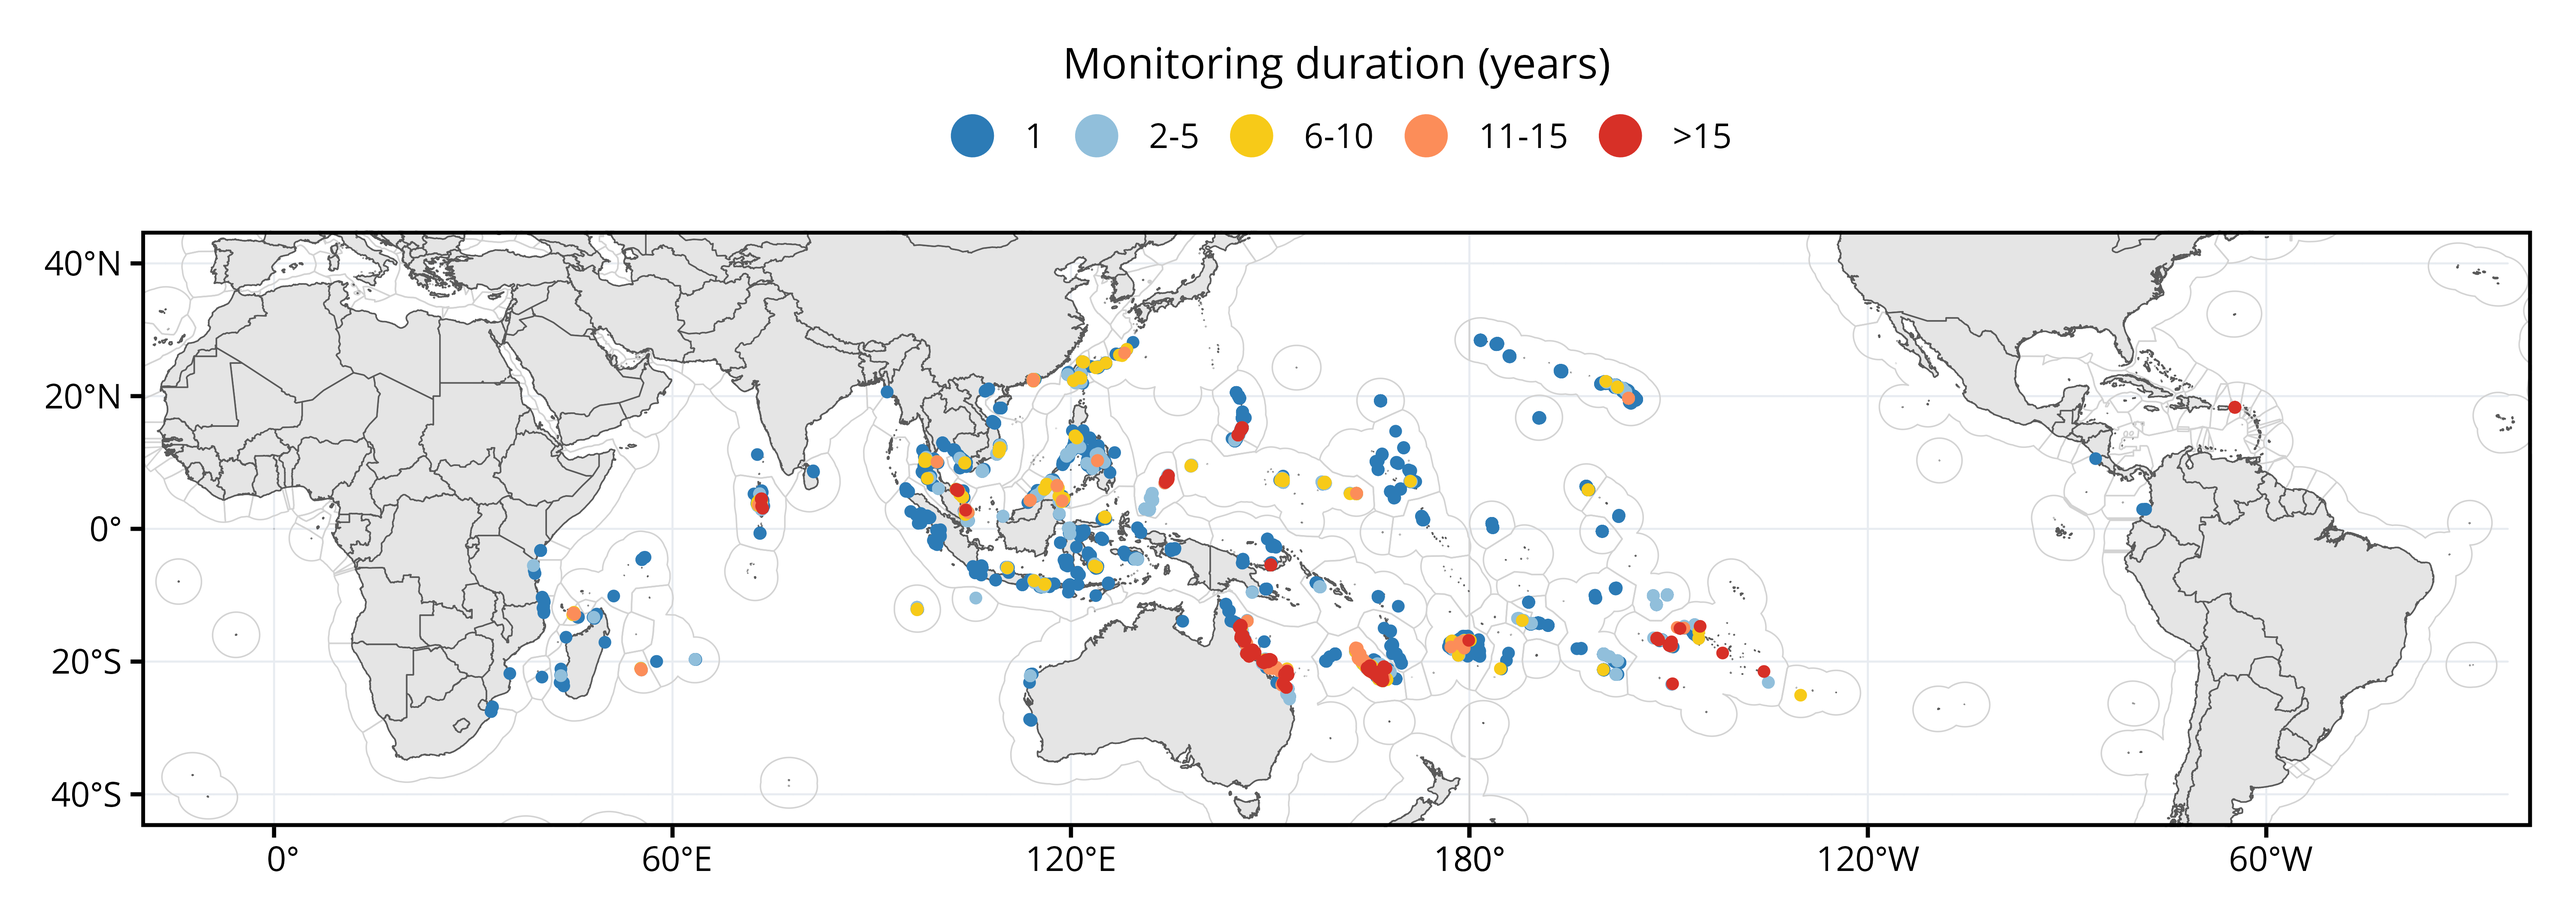
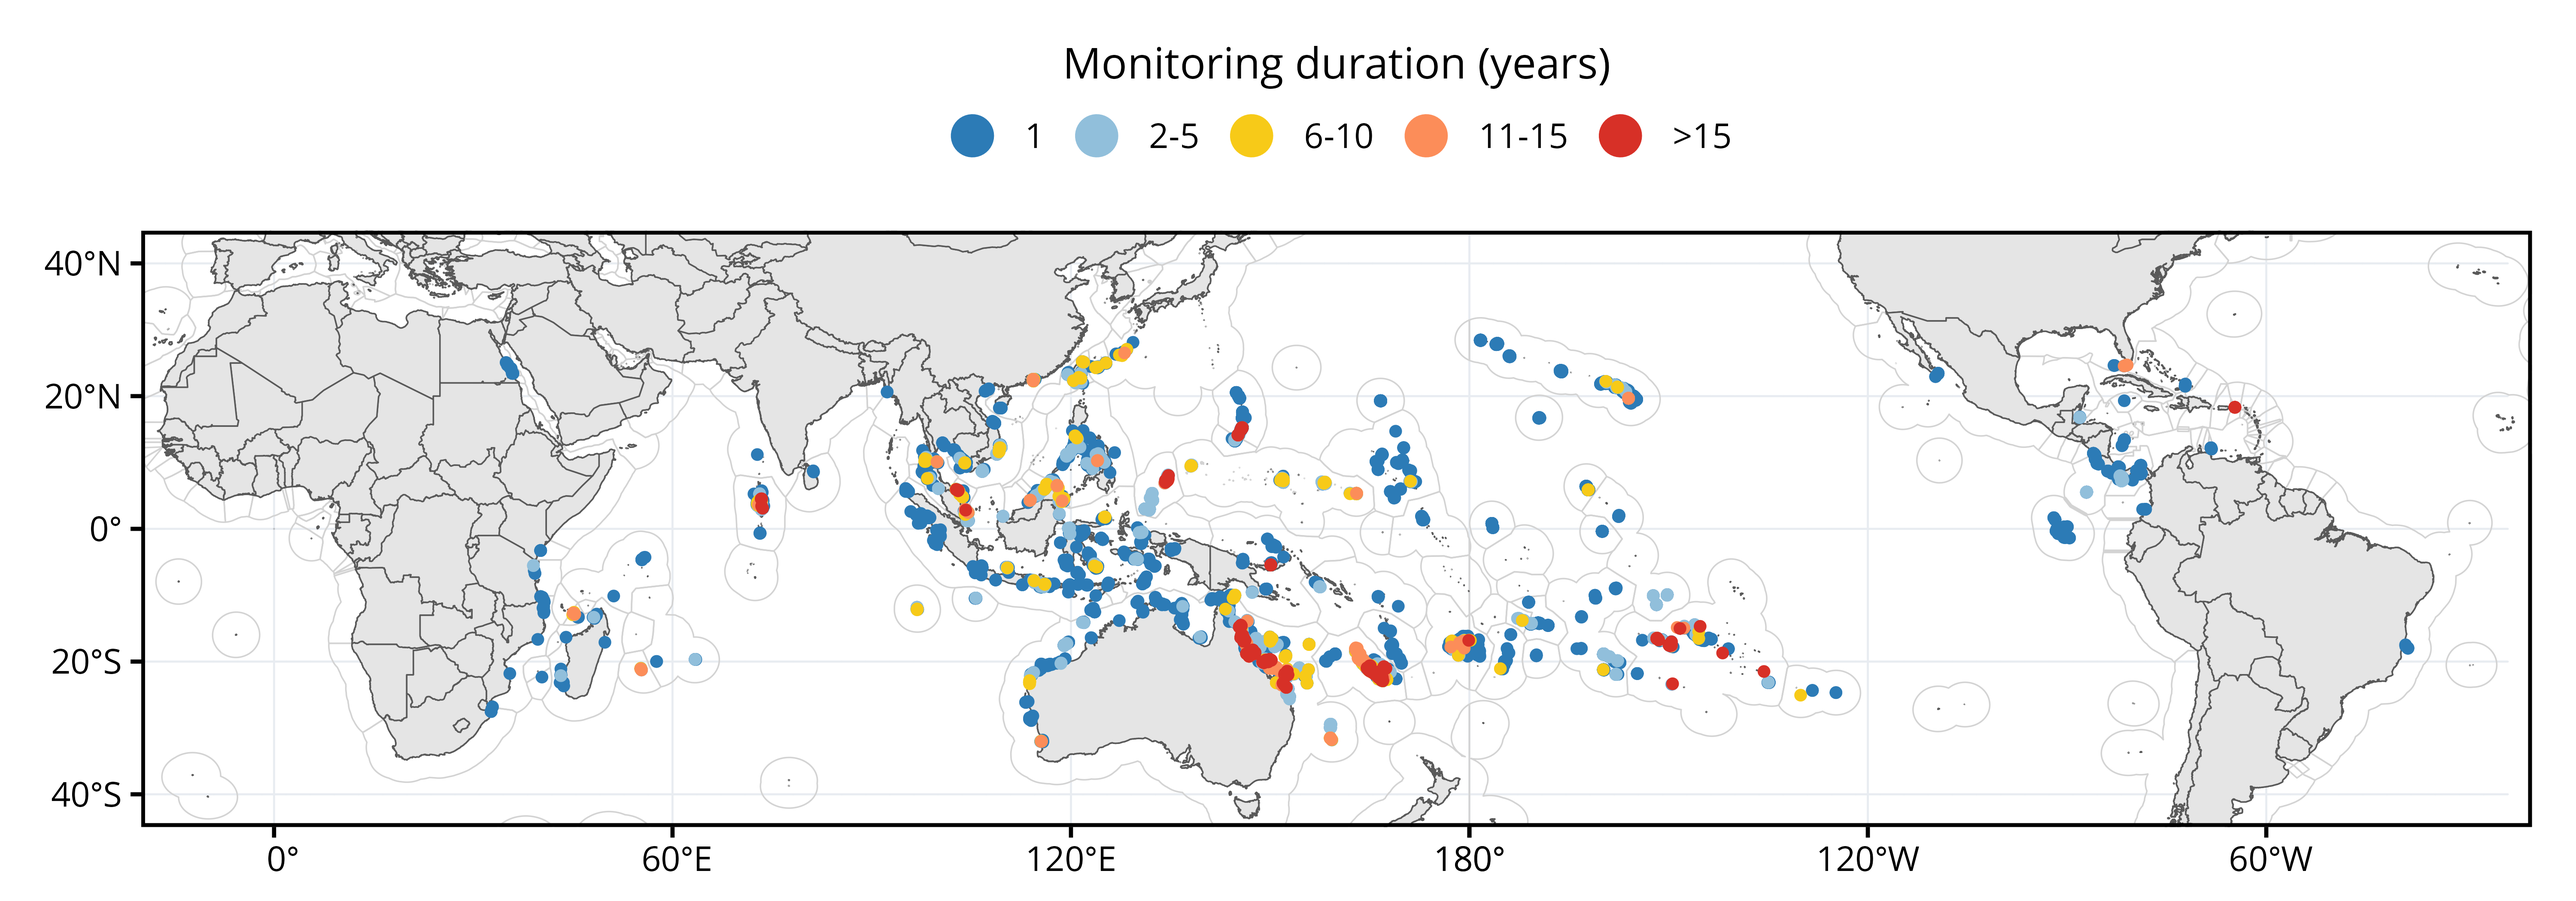
update standardization for dataset 0038

diff --git a/README.md b/README.md
@@ -269,9 +269,9 @@ considered. The column names (except *aggregator*) correspond to
 
 ## 6. Description of the synthetic dataset
 
-On the 2023-11-09, the `gcrmndb_benthos` synthetic dataset contains a
-total of **986,529 observations** (*i.e* rows) representing **9,862
-sites** and **22,945 surveys**.
+On the 2023-12-06, the `gcrmndb_benthos` synthetic dataset contains a
+total of **1,024,515 observations** (*i.e* rows) representing **11,281
+sites** and **24,966 surveys**.
 
 ![](figs/map_sites.png)
 
@@ -290,13 +290,15 @@ GCRMN regions.
 
 | GCRMN region | Sites (n) | Surveys (n) | Datasets (n) | First year | Last year |
 |-------------:|----------:|------------:|-------------:|:----------:|:---------:|
-|    Australia |       546 |        4175 |            2 |    1995    |   2019    |
-|    Caribbean |         8 |         236 |            2 |    1987    |   2021    |
-|          EAS |      2386 |        5247 |            2 |    1997    |   2022    |
-|          ETP |         5 |           5 |            1 |    1998    |   2004    |
-|      Pacific |      6620 |       12723 |           37 |    1987    |   2023    |
-|   South Asia |       151 |         217 |            1 |    1997    |   2022    |
-|          WIO |       146 |         342 |            1 |    1997    |   2019    |
+|    Australia |      1276 |        5409 |            3 |    1995    |   2023    |
+|       Brazil |        10 |          11 |            1 |    2012    |   2012    |
+|    Caribbean |        91 |         341 |            3 |    1987    |   2022    |
+|          EAS |      2519 |        5402 |            3 |    1997    |   2022    |
+|          ETP |       243 |         287 |            2 |    1998    |   2018    |
+|       PERSGA |        12 |          12 |            1 |    2011    |   2011    |
+|      Pacific |      6799 |       12911 |           38 |    1987    |   2023    |
+|   South Asia |       163 |         229 |            2 |    1997    |   2022    |
+|          WIO |       168 |         364 |            2 |    1997    |   2019    |
 
 **Table 7.** Summary of the content of the `gcrmndb_benthos` synthetic
 dataset per country and territory. The total number of datasets
@@ -304,64 +306,76 @@ integrated within the `gcrmndb_benthos` can differ from the sum of the
 column `Datasets (n)`, as some datasets includes sites in different
 territories.
 
-|               Country | Territory                    | Sites (n) | Surveys (n) | Datasets (n) | First year | Last year |
-|----------------------:|:-----------------------------|----------:|------------:|-------------:|:----------:|:---------:|
-|             Australia | Australia                    |       524 |        4113 |            2 |    1995    |   2019    |
-|             Australia | Christmas Island             |         2 |          13 |            1 |    2003    |   2007    |
-|             Australia | Cocos Islands                |        20 |          49 |            1 |    1997    |   2008    |
-|            Bangladesh | Bangladesh                   |         2 |           2 |            1 |    2005    |   2006    |
-|                Brunei | Brunei                       |        38 |          45 |            1 |    1997    |   2016    |
-|              Cambodia | Cambodia                     |        91 |          98 |            1 |    1998    |   2013    |
-|                 China | China                        |       100 |         366 |            1 |    1997    |   2012    |
-|              Colombia | Colombia                     |         4 |           4 |            1 |    1998    |   1999    |
-|            Costa Rica | Costa Rica                   |         1 |           1 |            1 |    2004    |   2004    |
-|            East Timor | East Timor                   |        10 |          12 |            1 |    2004    |   2017    |
-|                  Fiji | Fiji                         |       568 |         890 |           10 |    1997    |   2022    |
-|                France | Europa Island                |         1 |           1 |            1 |    2002    |   2002    |
-|                France | French Polynesia             |       150 |        2000 |            6 |    1987    |   2022    |
-|                France | Mayotte                      |        20 |          87 |            1 |    2003    |   2017    |
-|                France | New Caledonia                |       753 |        3200 |            7 |    1997    |   2023    |
-|                France | Réunion                      |        32 |         133 |            1 |    2003    |   2016    |
-|                 India | India                        |         1 |           1 |            1 |    1998    |   1998    |
-|             Indonesia | Indonesia                    |       549 |         908 |            1 |    1997    |   2022    |
-|                 Japan | Japan                        |        44 |         102 |            1 |    1997    |   2015    |
-|                 Kenya | Kenya                        |         6 |           6 |            1 |    2003    |   2004    |
-|              Kiribati | Gilbert Islands              |        18 |          18 |            2 |    2011    |   2018    |
-|              Kiribati | Line Group                   |        47 |          66 |            1 |    2017    |   2021    |
-|            Madagascar | Madagascar                   |        43 |          55 |            1 |    2001    |   2019    |
-|              Malaysia | Malaysia                     |       626 |        2195 |            2 |    1997    |   2021    |
-|              Maldives | Maldives                     |       145 |         211 |            1 |    1997    |   2022    |
-|      Marshall Islands | Marshall Islands             |        77 |          91 |            2 |    2002    |   2020    |
-|            Micronesia | Micronesia                   |       203 |         445 |            3 |    2000    |   2020    |
-|            Mozambique | Mozambique                   |        13 |          14 |            1 |    1997    |   2006    |
-|               Myanmar | Myanmar                      |        22 |          29 |            1 |    2001    |   2013    |
-|           New Zealand | Cook Islands                 |       172 |         226 |            4 |    2005    |   2023    |
-|                 Palau | Palau                        |       112 |         381 |            3 |    1997    |   2022    |
-|      Papua New Guinea | Papua New Guinea             |        83 |         259 |            3 |    1998    |   2019    |
-|           Philippines | Philippines                  |       472 |         695 |            1 |    1997    |   2020    |
-| Republic of Mauritius | Republic of Mauritius        |        10 |          12 |            1 |    1999    |   2003    |
-|                 Samoa | Samoa                        |        26 |          51 |            2 |    2013    |   2019    |
-|            Seychelles | Seychelles                   |         7 |           7 |            1 |    1997    |   2001    |
-|       Solomon Islands | Solomon Islands              |        73 |         171 |            3 |    2005    |   2021    |
-|          South Africa | South Africa                 |         5 |           6 |            1 |    2001    |   2005    |
-|             Sri Lanka | Sri Lanka                    |         3 |           3 |            1 |    2003    |   2003    |
-|                Taiwan | Taiwan                       |       103 |         195 |            1 |    1997    |   2020    |
-|              Tanzania | Tanzania                     |         9 |          21 |            1 |    1997    |   2008    |
-|              Thailand | Thailand                     |       149 |         246 |            1 |    1998    |   2022    |
-|                 Tonga | Tonga                        |         4 |           9 |            2 |    2002    |   2019    |
-|        United Kingdom | Pitcairn                     |         1 |           5 |            1 |    2009    |   2018    |
-|         United States | American Samoa               |       826 |         886 |            3 |    1997    |   2019    |
-|         United States | Guam                         |       301 |         353 |            4 |    1997    |   2021    |
-|         United States | Hawaii                       |      1725 |        1915 |            3 |    1997    |   2021    |
-|         United States | Howland and Baker Islands    |       150 |         150 |            1 |    2015    |   2017    |
-|         United States | Jarvis Island                |       222 |         222 |            1 |    2015    |   2017    |
-|         United States | Johnston Atoll               |        46 |          46 |            1 |    2015    |   2015    |
-|         United States | Northern Mariana Islands     |       679 |         840 |            3 |    1999    |   2020    |
-|         United States | Palmyra Atoll                |       194 |         294 |            2 |    2009    |   2019    |
-|         United States | United States Virgin Islands |         8 |         236 |            2 |    1987    |   2021    |
-|         United States | Wake Island / Enenkio        |       146 |         146 |            1 |    2014    |   2017    |
-|               Vanuatu | Vanuatu                      |        44 |          59 |            2 |    2004    |   2019    |
-|               Vietnam | Vietnam                      |       182 |         356 |            1 |    1998    |   2011    |
+|               Country | Territory                      | Sites (n) | Surveys (n) | Datasets (n) | First year | Last year |
+|----------------------:|:-------------------------------|----------:|------------:|-------------:|:----------:|:---------:|
+|             Australia | Australia                      |      1247 |        5343 |            3 |    1995    |   2023    |
+|             Australia | Christmas Island               |        16 |          30 |            2 |    2003    |   2010    |
+|             Australia | Cocos Islands                  |        20 |          49 |            1 |    1997    |   2008    |
+|            Bangladesh | Bangladesh                     |         2 |           2 |            1 |    2005    |   2006    |
+|                Belize | Belize                         |        12 |          22 |            1 |    2015    |   2018    |
+|                Brazil | Brazil                         |        10 |          11 |            1 |    2012    |   2012    |
+|                Brunei | Brunei                         |        38 |          45 |            1 |    1997    |   2016    |
+|              Cambodia | Cambodia                       |        96 |         103 |            2 |    1998    |   2013    |
+|                 China | China                          |       100 |         366 |            1 |    1997    |   2012    |
+|              Colombia | Colombia                       |        20 |          20 |            2 |    1998    |   2011    |
+|            Costa Rica | Costa Rica                     |        52 |          65 |            2 |    2004    |   2011    |
+|            East Timor | East Timor                     |        11 |          13 |            2 |    2004    |   2017    |
+|               Ecuador | Galapagos                      |        65 |          65 |            1 |    2008    |   2012    |
+|                 Egypt | Egypt                          |        12 |          12 |            1 |    2011    |   2011    |
+|                  Fiji | Fiji                           |       568 |         890 |           10 |    1997    |   2022    |
+|                France | Europa Island                  |         1 |           1 |            1 |    2002    |   2002    |
+|                France | French Polynesia               |       223 |        2075 |            7 |    1987    |   2022    |
+|                France | Mayotte                        |        20 |          87 |            1 |    2003    |   2017    |
+|                France | New Caledonia                  |       753 |        3200 |            7 |    1997    |   2023    |
+|                France | Réunion                        |        32 |         133 |            1 |    2003    |   2016    |
+|                 India | India                          |         1 |           1 |            1 |    1998    |   1998    |
+|             Indonesia | Indonesia                      |       668 |        1049 |            2 |    1997    |   2022    |
+|                 Japan | Japan                          |        52 |         110 |            2 |    1997    |   2015    |
+|                 Kenya | Kenya                          |         6 |           6 |            1 |    2003    |   2004    |
+|              Kiribati | Gilbert Islands                |        18 |          18 |            2 |    2011    |   2018    |
+|              Kiribati | Line Group                     |        47 |          66 |            1 |    2017    |   2021    |
+|            Madagascar | Madagascar                     |        43 |          55 |            1 |    2001    |   2019    |
+|              Malaysia | Malaysia                       |       626 |        2195 |            2 |    1997    |   2021    |
+|              Maldives | Maldives                       |       157 |         223 |            2 |    1997    |   2022    |
+|      Marshall Islands | Marshall Islands               |        90 |         104 |            3 |    2002    |   2020    |
+|                Mexico | Mexico                         |         9 |          10 |            1 |    2018    |   2018    |
+|            Micronesia | Federated States of Micronesia |       203 |         445 |            3 |    2000    |   2020    |
+|            Mozambique | Mozambique                     |        14 |          15 |            2 |    1997    |   2012    |
+|               Myanmar | Myanmar                        |        22 |          29 |            1 |    2001    |   2013    |
+|           Netherlands | Bonaire                        |        14 |          14 |            1 |    2012    |   2012    |
+|           New Zealand | Cook Islands                   |       184 |         238 |            5 |    2005    |   2023    |
+|           New Zealand | Niue                           |         7 |           7 |            1 |    2011    |   2011    |
+|             Nicaragua | Nicaragua                      |        23 |          23 |            1 |    2011    |   2015    |
+|                 Palau | Palau                          |       112 |         381 |            3 |    1997    |   2022    |
+|                Panama | Panama                         |       109 |         140 |            1 |    2007    |   2015    |
+|      Papua New Guinea | Papua New Guinea               |        91 |         267 |            4 |    1998    |   2019    |
+|           Philippines | Philippines                    |       472 |         695 |            1 |    1997    |   2020    |
+| Republic of Mauritius | Republic of Mauritius          |        10 |          12 |            1 |    1999    |   2003    |
+|                 Samoa | Samoa                          |        27 |          52 |            3 |    2012    |   2019    |
+|            Seychelles | Seychelles                     |        19 |          19 |            2 |    1997    |   2012    |
+|       Solomon Islands | Solomon Islands                |        75 |         173 |            4 |    2005    |   2021    |
+|          South Africa | South Africa                   |         5 |           6 |            1 |    2001    |   2005    |
+|             Sri Lanka | Sri Lanka                      |         3 |           3 |            1 |    2003    |   2003    |
+|                Taiwan | Taiwan                         |       103 |         195 |            1 |    1997    |   2020    |
+|              Tanzania | Tanzania                       |        18 |          30 |            2 |    1997    |   2012    |
+|              Thailand | Thailand                       |       149 |         246 |            1 |    1998    |   2022    |
+|                 Tonga | Tonga                          |        29 |          34 |            3 |    2002    |   2019    |
+|        United Kingdom | Cayman Islands                 |         1 |           1 |            1 |    2011    |   2011    |
+|        United Kingdom | Pitcairn                       |         6 |          11 |            2 |    2009    |   2018    |
+|        United Kingdom | Turks and Caicos Islands       |         4 |           4 |            1 |    2015    |   2015    |
+|         United States | American Samoa                 |       843 |         903 |            4 |    1997    |   2019    |
+|         United States | Guam                           |       301 |         353 |            4 |    1997    |   2021    |
+|         United States | Hawaii                         |      1734 |        1924 |            4 |    1997    |   2021    |
+|         United States | Howland and Baker Islands      |       150 |         150 |            1 |    2015    |   2017    |
+|         United States | Jarvis Island                  |       222 |         222 |            1 |    2015    |   2017    |
+|         United States | Johnston Atoll                 |        46 |          46 |            1 |    2015    |   2015    |
+|         United States | Northern Mariana Islands       |       679 |         840 |            3 |    1999    |   2020    |
+|         United States | Palmyra Atoll                  |       194 |         294 |            2 |    2009    |   2019    |
+|         United States | United States                  |        17 |          28 |            1 |    2010    |   2022    |
+|         United States | United States Virgin Islands   |         8 |         236 |            2 |    1987    |   2021    |
+|         United States | Wake Island                    |       146 |         146 |            1 |    2014    |   2017    |
+|               Vanuatu | Vanuatu                        |        44 |          59 |            2 |    2004    |   2019    |
+|               Vietnam | Vietnam                        |       182 |         356 |            1 |    1998    |   2011    |
 
 ## 7. Sponsors
 
@@ -426,7 +440,7 @@ The following organizations have funded the realization of the
      collate  French_France.utf8
      ctype    French_France.utf8
      tz       Europe/Paris
-     date     2023-11-09
+     date     2023-12-06
      pandoc   3.1.1 @ C:/Program Files/RStudio/resources/app/bin/quarto/bin/tools/ (via rmarkdown)
 
     ─ Packages ───────────────────────────────────────────────────────────────────
